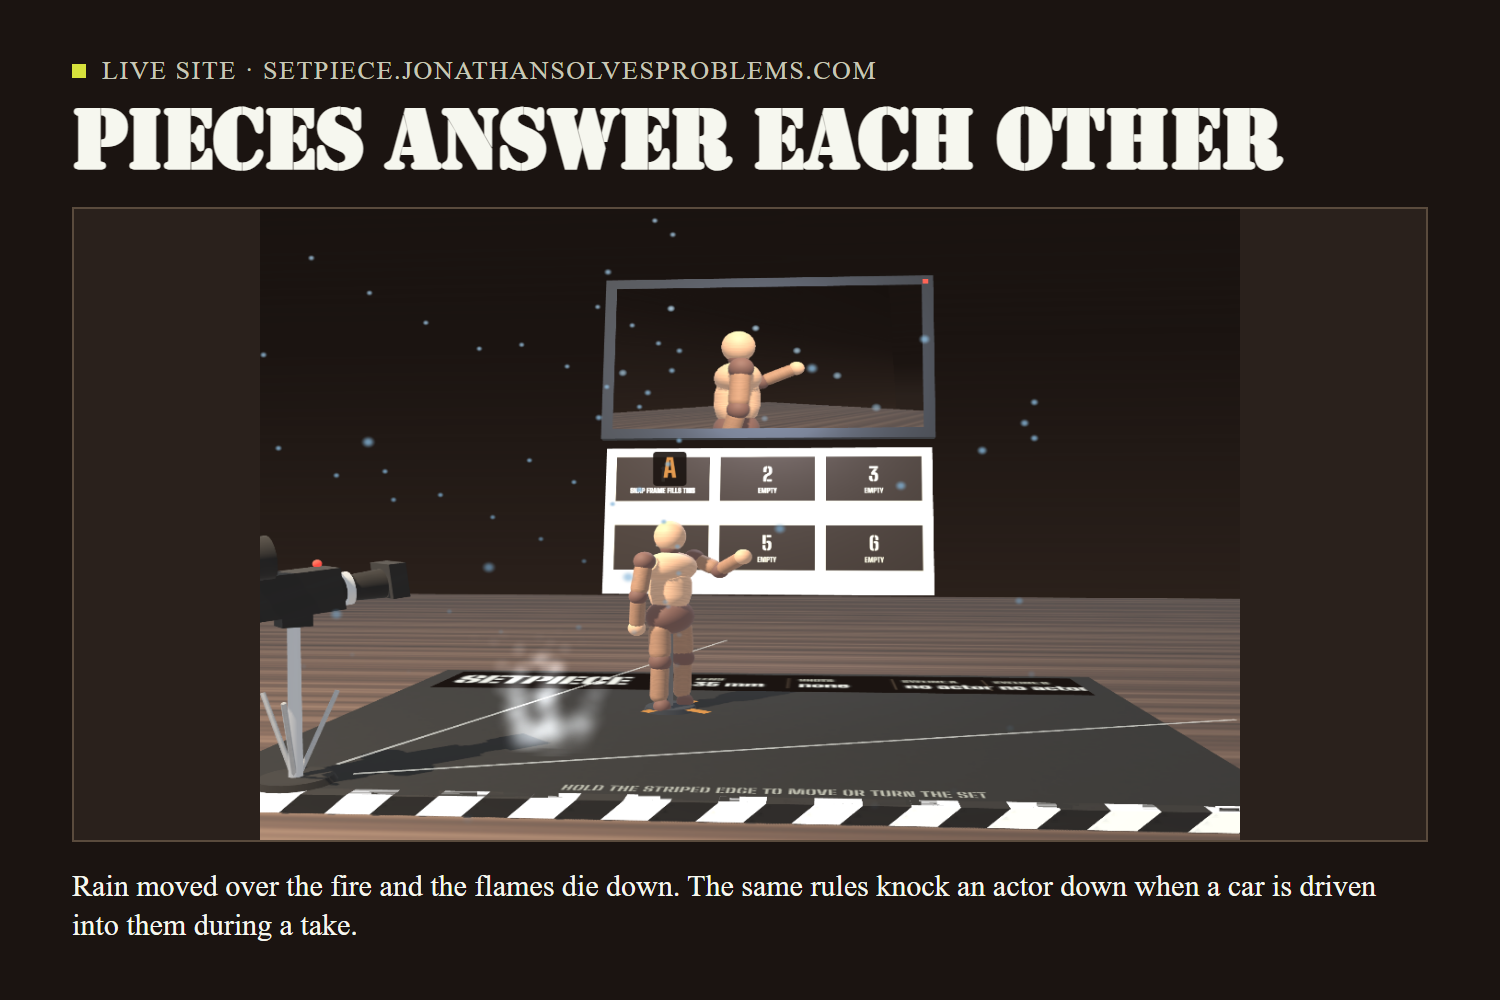
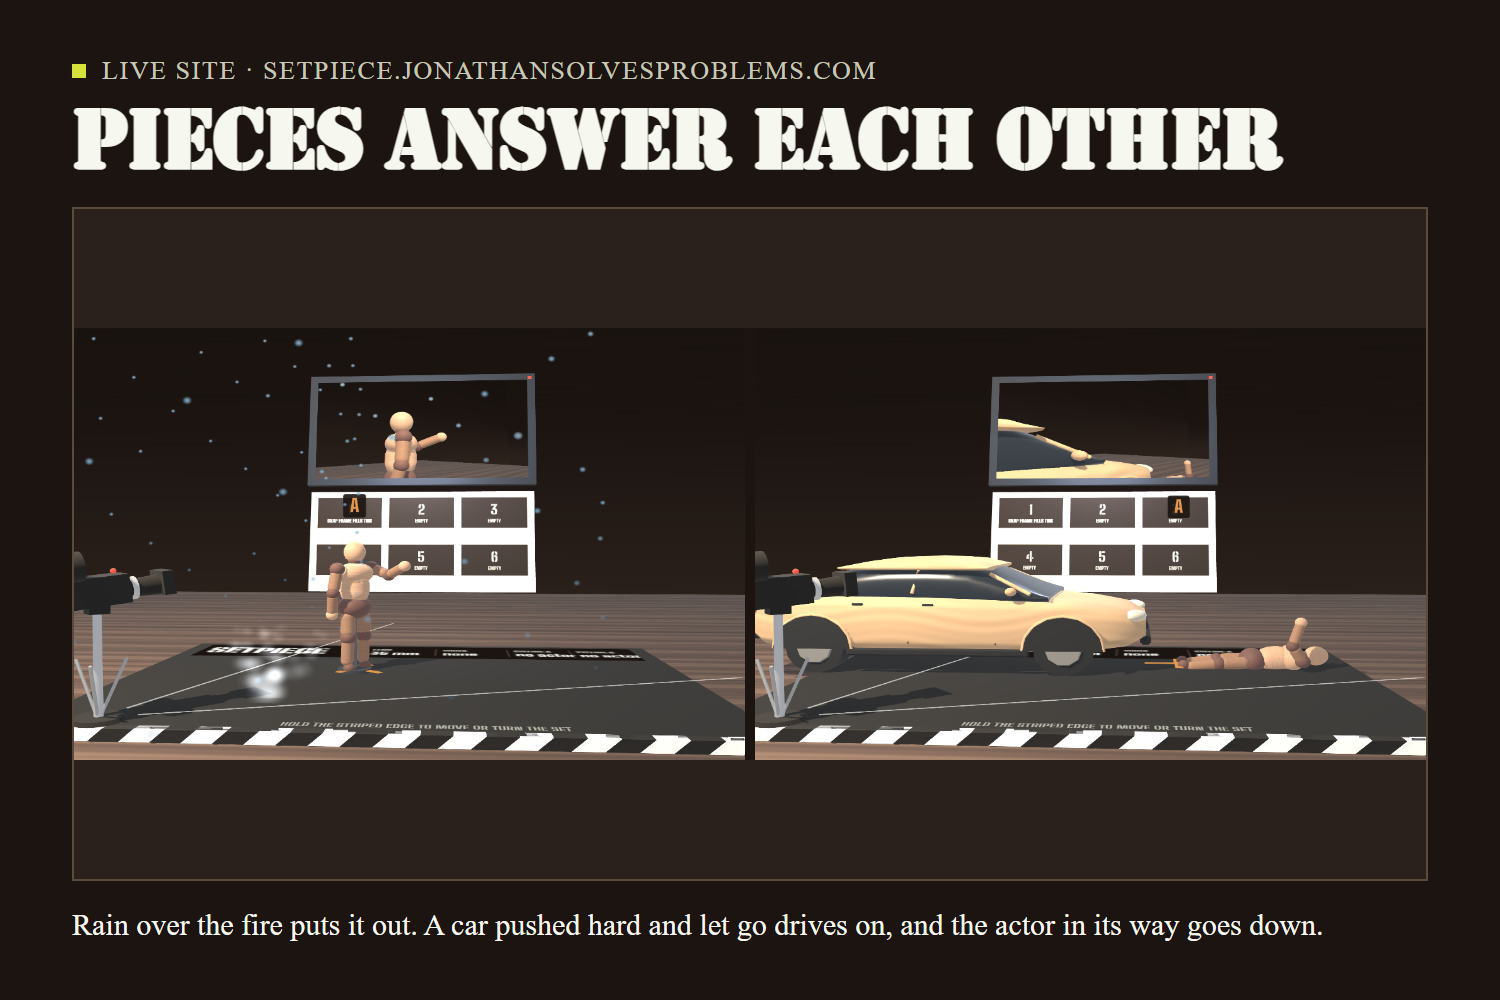
Show the rebuilt pieces and a car driven into an actor in the gallery, from the live site

Changed region(s): [[0.0307, 0.248, 0.9507, 0.961]]

diff --git a/tools/gallery.py b/tools/gallery.py
@@ -64,8 +64,8 @@ SLIDES = [
     dict(slug='take', badge=LIVE_BADGE, headline='Record a take', picture=('live', 'take'),
          caption='Carry an actor across while it records and they walk it back, in step, on the floor. Up to twelve seconds, kept with the board.'),
     dict(slug='fire', badge=LIVE_BADGE, headline='Pieces answer each other', picture=('live', 'fire'),
-         caption='Rain moved over the fire and the flames die down. The same rules knock an actor down when a car is driven into them during a take.'),
-    dict(slug='library', badge='Emulator · the panel at 1 mm per pixel', headline='{assets} pieces on six shelves', picture='../.design/shots/pass2/panel/assets-held.jpg',
+         caption='Rain over the fire puts it out. A car pushed hard and let go drives on, and the actor in its way goes down.'),
+    dict(slug='library', badge=LIVE_BADGE, headline='{assets} pieces on six shelves', picture=('live', 'pieces'),
          caption='Cast, creatures, vehicles, effects, set and props, every one a bare maquette you can paint, size and fit out. {scenes} scenes to start from.'),
     dict(slug='scene', badge=LIVE_BADGE, headline='Ten scenes to start from', picture=('live', 'dragon'),
          caption='Dragon attack: a dragon, a house on fire and two actors, placed as a blocking. Start here, then move anything.'),
@@ -255,6 +255,62 @@ async def live_capture(browser, recipe: str, out: Path) -> Path:
         await page.wait_for_timeout(1200)
         await page.evaluate("(() => { const w = globalThis.setpiece.world; const f = w.scene.getObjectByName('Fire'); const r = w.scene.getObjectByName('Rain'); if (f && r) { r.position.x = f.position.x; r.position.z = f.position.z; w.globals.layoutChanged.value += 1; } })()")
         await page.wait_for_timeout(2500)
+        fire_png = out / 'live-fire-rain.png'
+        await stage_png(page, fire_png)
+        # Then a car let go while moving: it rolls on along its nose and the actor in its way goes down.
+        # The roll is started on the same code path a hand push takes, at a set speed, since a script has no hand.
+        await say('new scene with a car and an actor')
+        await page.wait_for_timeout(1200)
+        rolled = await page.evaluate("""(async () => {
+          const w = globalThis.setpiece.world; const wait = (ms) => new Promise((d) => setTimeout(d, ms));
+          const systems = [...w.getSystems()];
+          const tray = systems.find((s) => s.managed && s.finish);
+          const pieces = systems.find((s) => Array.isArray(s.rolling) && Array.isArray(s.dressed));
+          const squirm = systems.find((s) => typeof s.isDown === 'function');
+          const car = tray.managed.find((p) => tray.key(p) === 'Car');
+          const actor = tray.managed.find((p) => tray.key(p) === 'A');
+          car.object3D.position.set(-0.27, 0, -0.09); car.object3D.rotation.set(0, Math.PI / 2, 0);
+          actor.object3D.position.set(0.1, 0, -0.07); actor.object3D.rotation.set(0, -Math.PI / 2, 0);
+          w.globals.layoutChanged.value += 1;
+          await wait(600);
+          pieces.rolling.push({ index: pieces.dressed.indexOf(car), speed: 0.3, hit: false });
+          await wait(2800);
+          return { car: car.object3D.position.x, rolling: pieces.rolling.length, down: squirm ? squirm.isDown(actor) : null };
+        })()""")
+        assert rolled['rolling'] == 0 and rolled['car'] > -0.2 and rolled['down'] is True, rolled
+        drive_png = out / 'live-drive.png'
+        await stage_png(page, drive_png)
+        from PIL import Image
+        ims = [Image.open(p).convert('RGB') for p in (fire_png, drive_png)]
+        h = min(i.height for i in ims)
+        ims = [i.resize((int(i.width * h / i.height), h)) for i in ims]
+        sheet = Image.new('RGB', (sum(i.width for i in ims) + 16, h), (27, 20, 17))
+        x = 0
+        for i in ims:
+            sheet.paste(i, (x, 0))
+            x += i.width + 16
+        sheet.save(png)
+    elif recipe == 'pieces':
+        # The rebuilt vehicles and set dressing, standing on the slate together.
+        await say('new scene with a van, a motorbike, a tree and a rock')
+        await page.wait_for_timeout(1800)
+        # Spread out so each one reads: the van across the middle, the tree behind it, the bike and the rock in front.
+        placed = await page.evaluate("""(async () => {
+          const w = globalThis.setpiece.world;
+          const tray = [...w.getSystems()].find((s) => s.managed && s.finish);
+          const at = { Van: [-0.04, -0.05, 90], Motorbike: [0.15, 0.12, 135], Tree: [0.25, -0.16, 0], Rock: [-0.14, 0.135, 30] };
+          const found = [];
+          for (const p of tray.managed) {
+            const k = tray.key(p); const spot = at[k];
+            if (!spot || !p.object3D.visible) continue;
+            p.object3D.position.set(spot[0], 0, spot[1]); p.object3D.rotation.set(0, spot[2] * Math.PI / 180, 0);
+            found.push(k);
+          }
+          w.globals.layoutChanged.value += 1;
+          await new Promise((d) => setTimeout(d, 800));
+          return found.sort();
+        })()""")
+        assert placed == ['Motorbike', 'Rock', 'Tree', 'Van'], placed
         await stage_png(page, png)
     elif recipe == 'exports':
         # What a director actually leaves with: the board image and the shot list, saved by the page's own buttons.

diff --git a/devpost/checks/last-run.md b/devpost/checks/last-run.md
@@ -1,20 +1,20 @@
 # Live site checks
 
-Run on 2026-11-09 23:38 UTC against https://setpiece.jonathansolvesproblems.com/ by `node tools/check-live.mjs`. Build served: 636020d-20261109T2337.
+Run on 2026-11-10 00:19 UTC against https://setpiece.jonathansolvesproblems.com/ by `node tools/check-live.mjs`. Build served: 11295c5-20261110T0015.
 
 **35 of 35 passed.**
 
 | Check | Result | Detail |
 |---|---|---|
-| the page answers over HTTPS | pass | 200, 244 ms |
+| the page answers over HTTPS | pass | 200, 215 ms |
 | it is Setpiece | pass |  |
 | search engines are allowed to index it | pass | no X-Robots-Tag |
 | the loading card is in the page | pass |  |
 | the page controls start locked until the set is ready | pass |  |
 | the page signs itself | pass |  |
-| the app script is named in the page | pass | assets/index-D0kMhZm7.js |
+| the app script is named in the page | pass | assets/index-DjYVxMzf.js |
 | version.json is served | pass | 200 |
-| version.json names a build | pass | 636020d-20261109T2337 |
+| version.json names a build | pass | 11295c5-20261110T0015 |
 | the app script is served | pass | 200, 2.56 MB |
 | the app script is under 3 MB | pass | 2.56 MB |
 | the served script carries the same build as version.json | pass |  |

diff --git a/devpost/gallery/captions.md b/devpost/gallery/captions.md
@@ -47,7 +47,7 @@ Carry an actor across while it records and they walk it back, in step, on the fl
 ## 08 fire
 
 ```
-Rain moved over the fire and the flames die down. The same rules knock an actor down when a car is driven into them during a take.
+Rain over the fire puts it out. A car pushed hard and let go drives on, and the actor in its way goes down.
 ```
 
 ## 09 library
